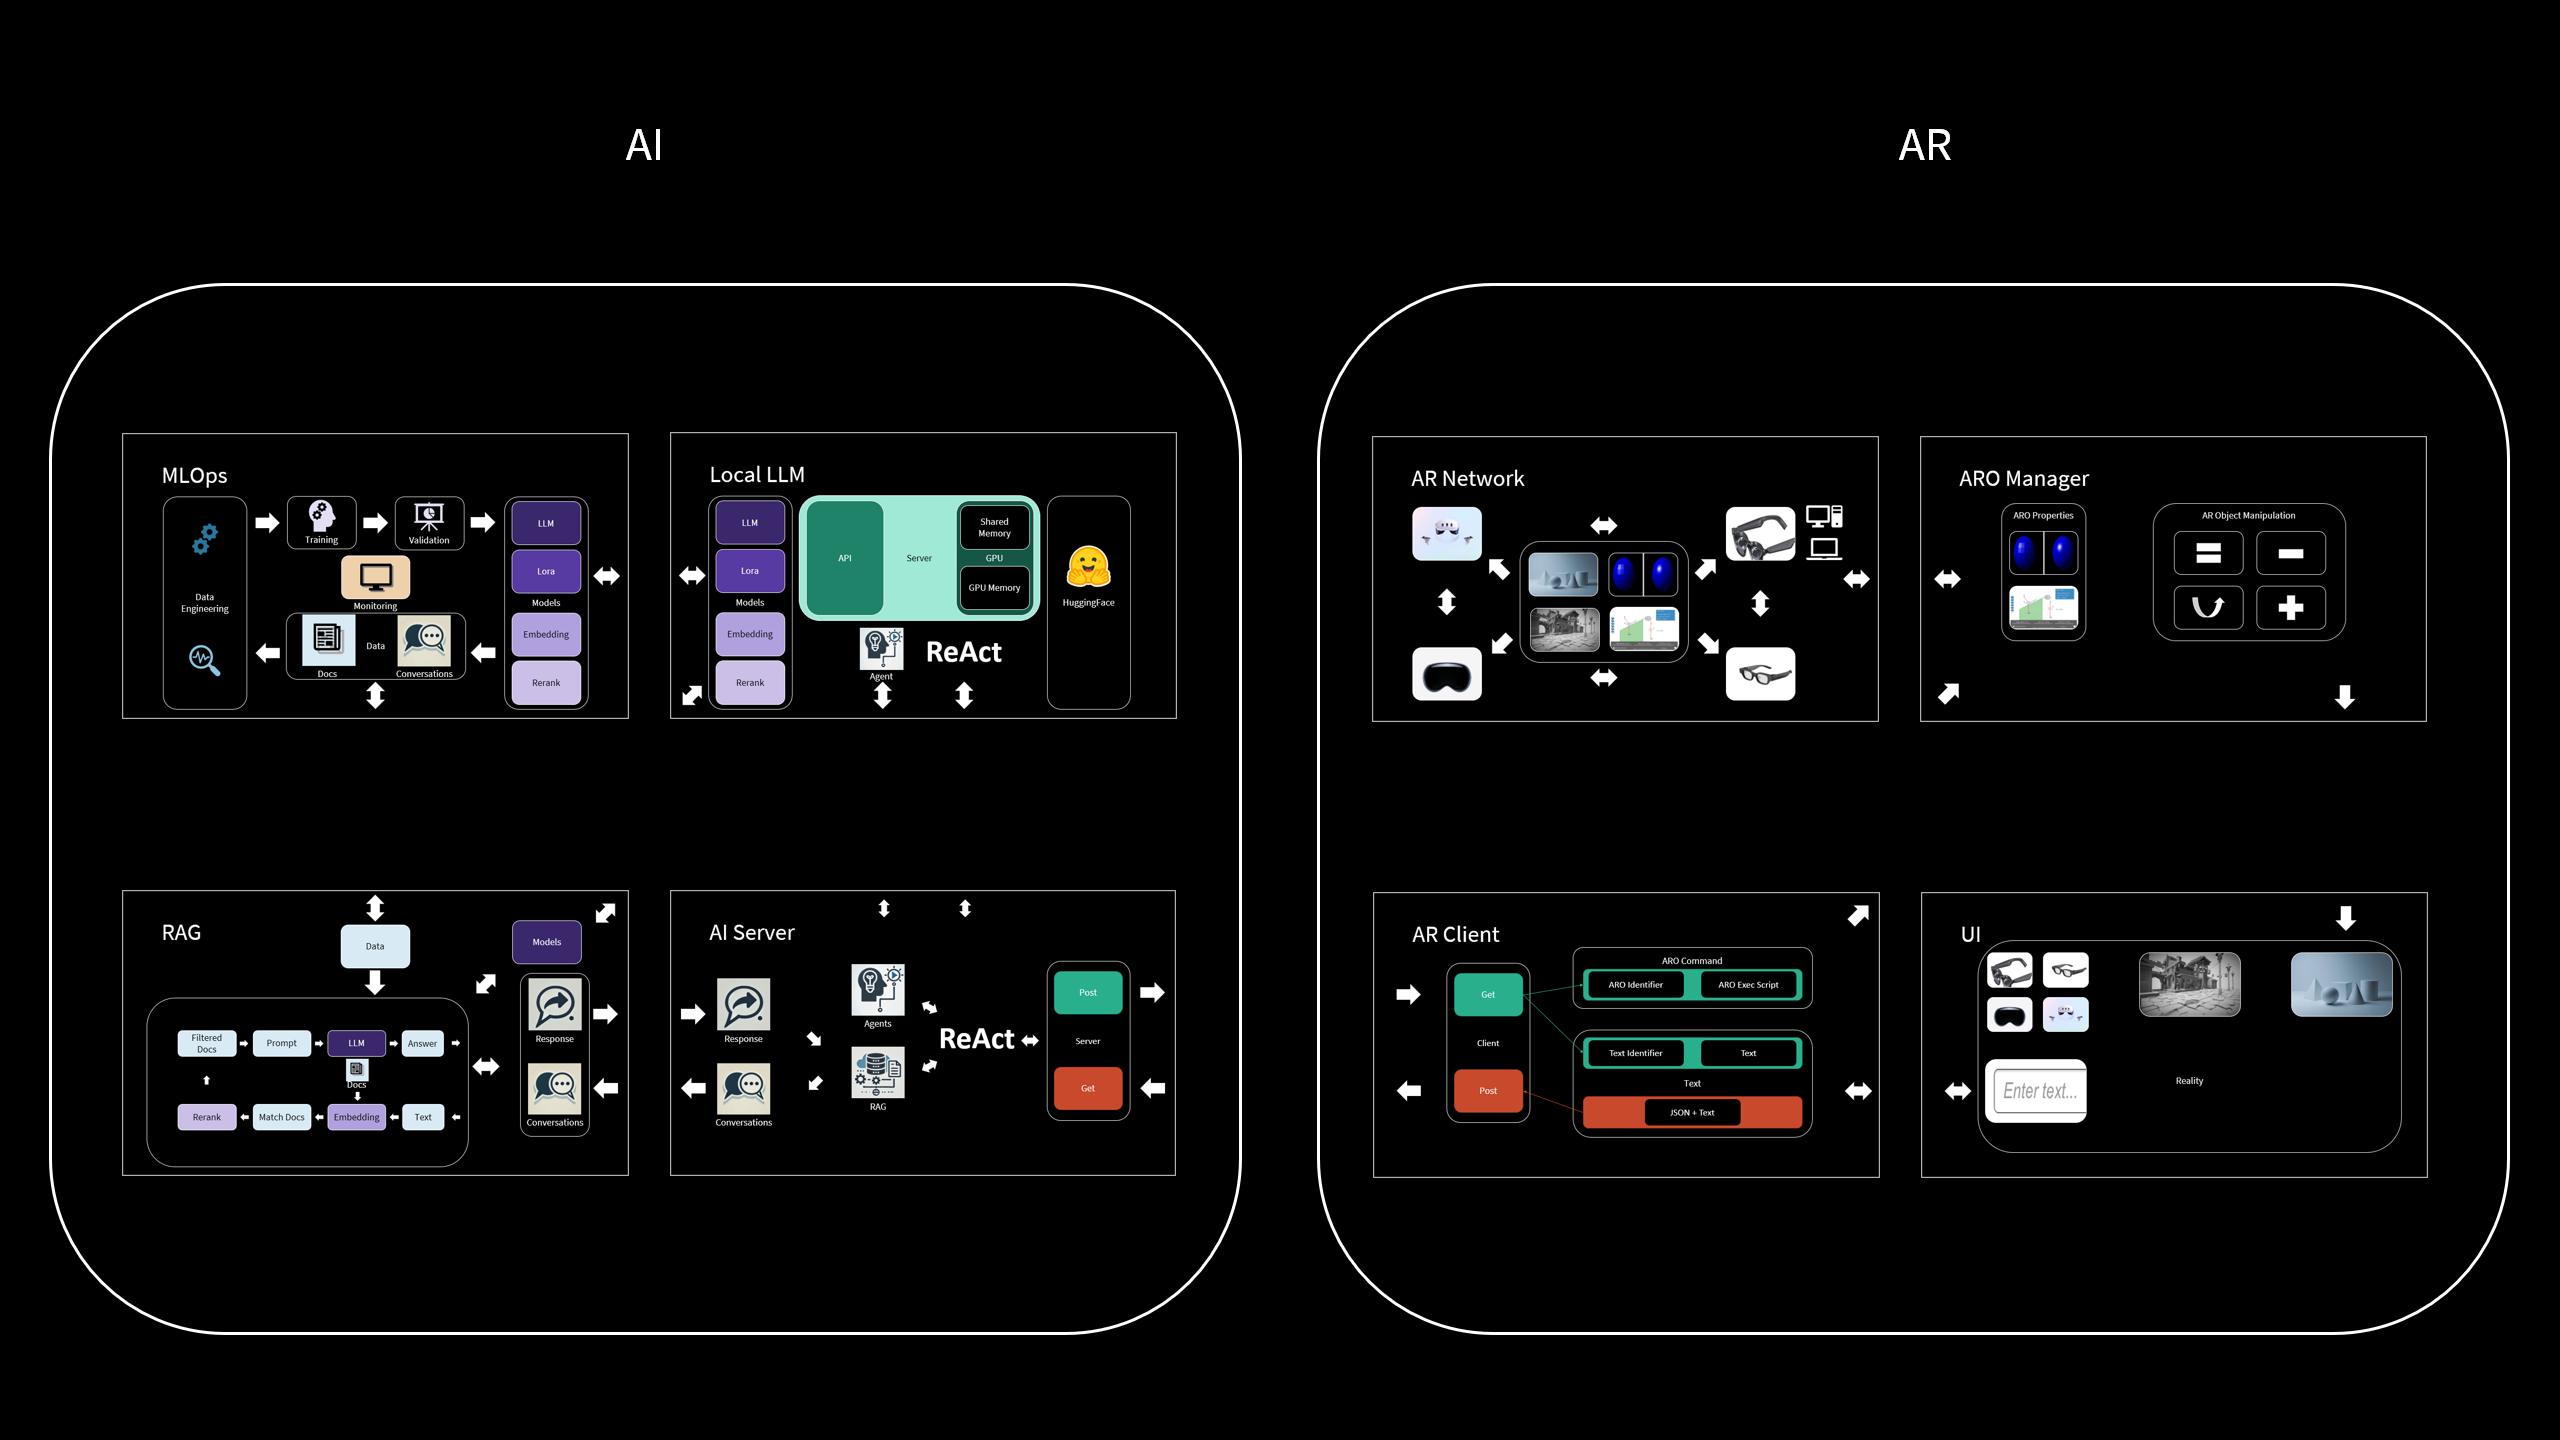
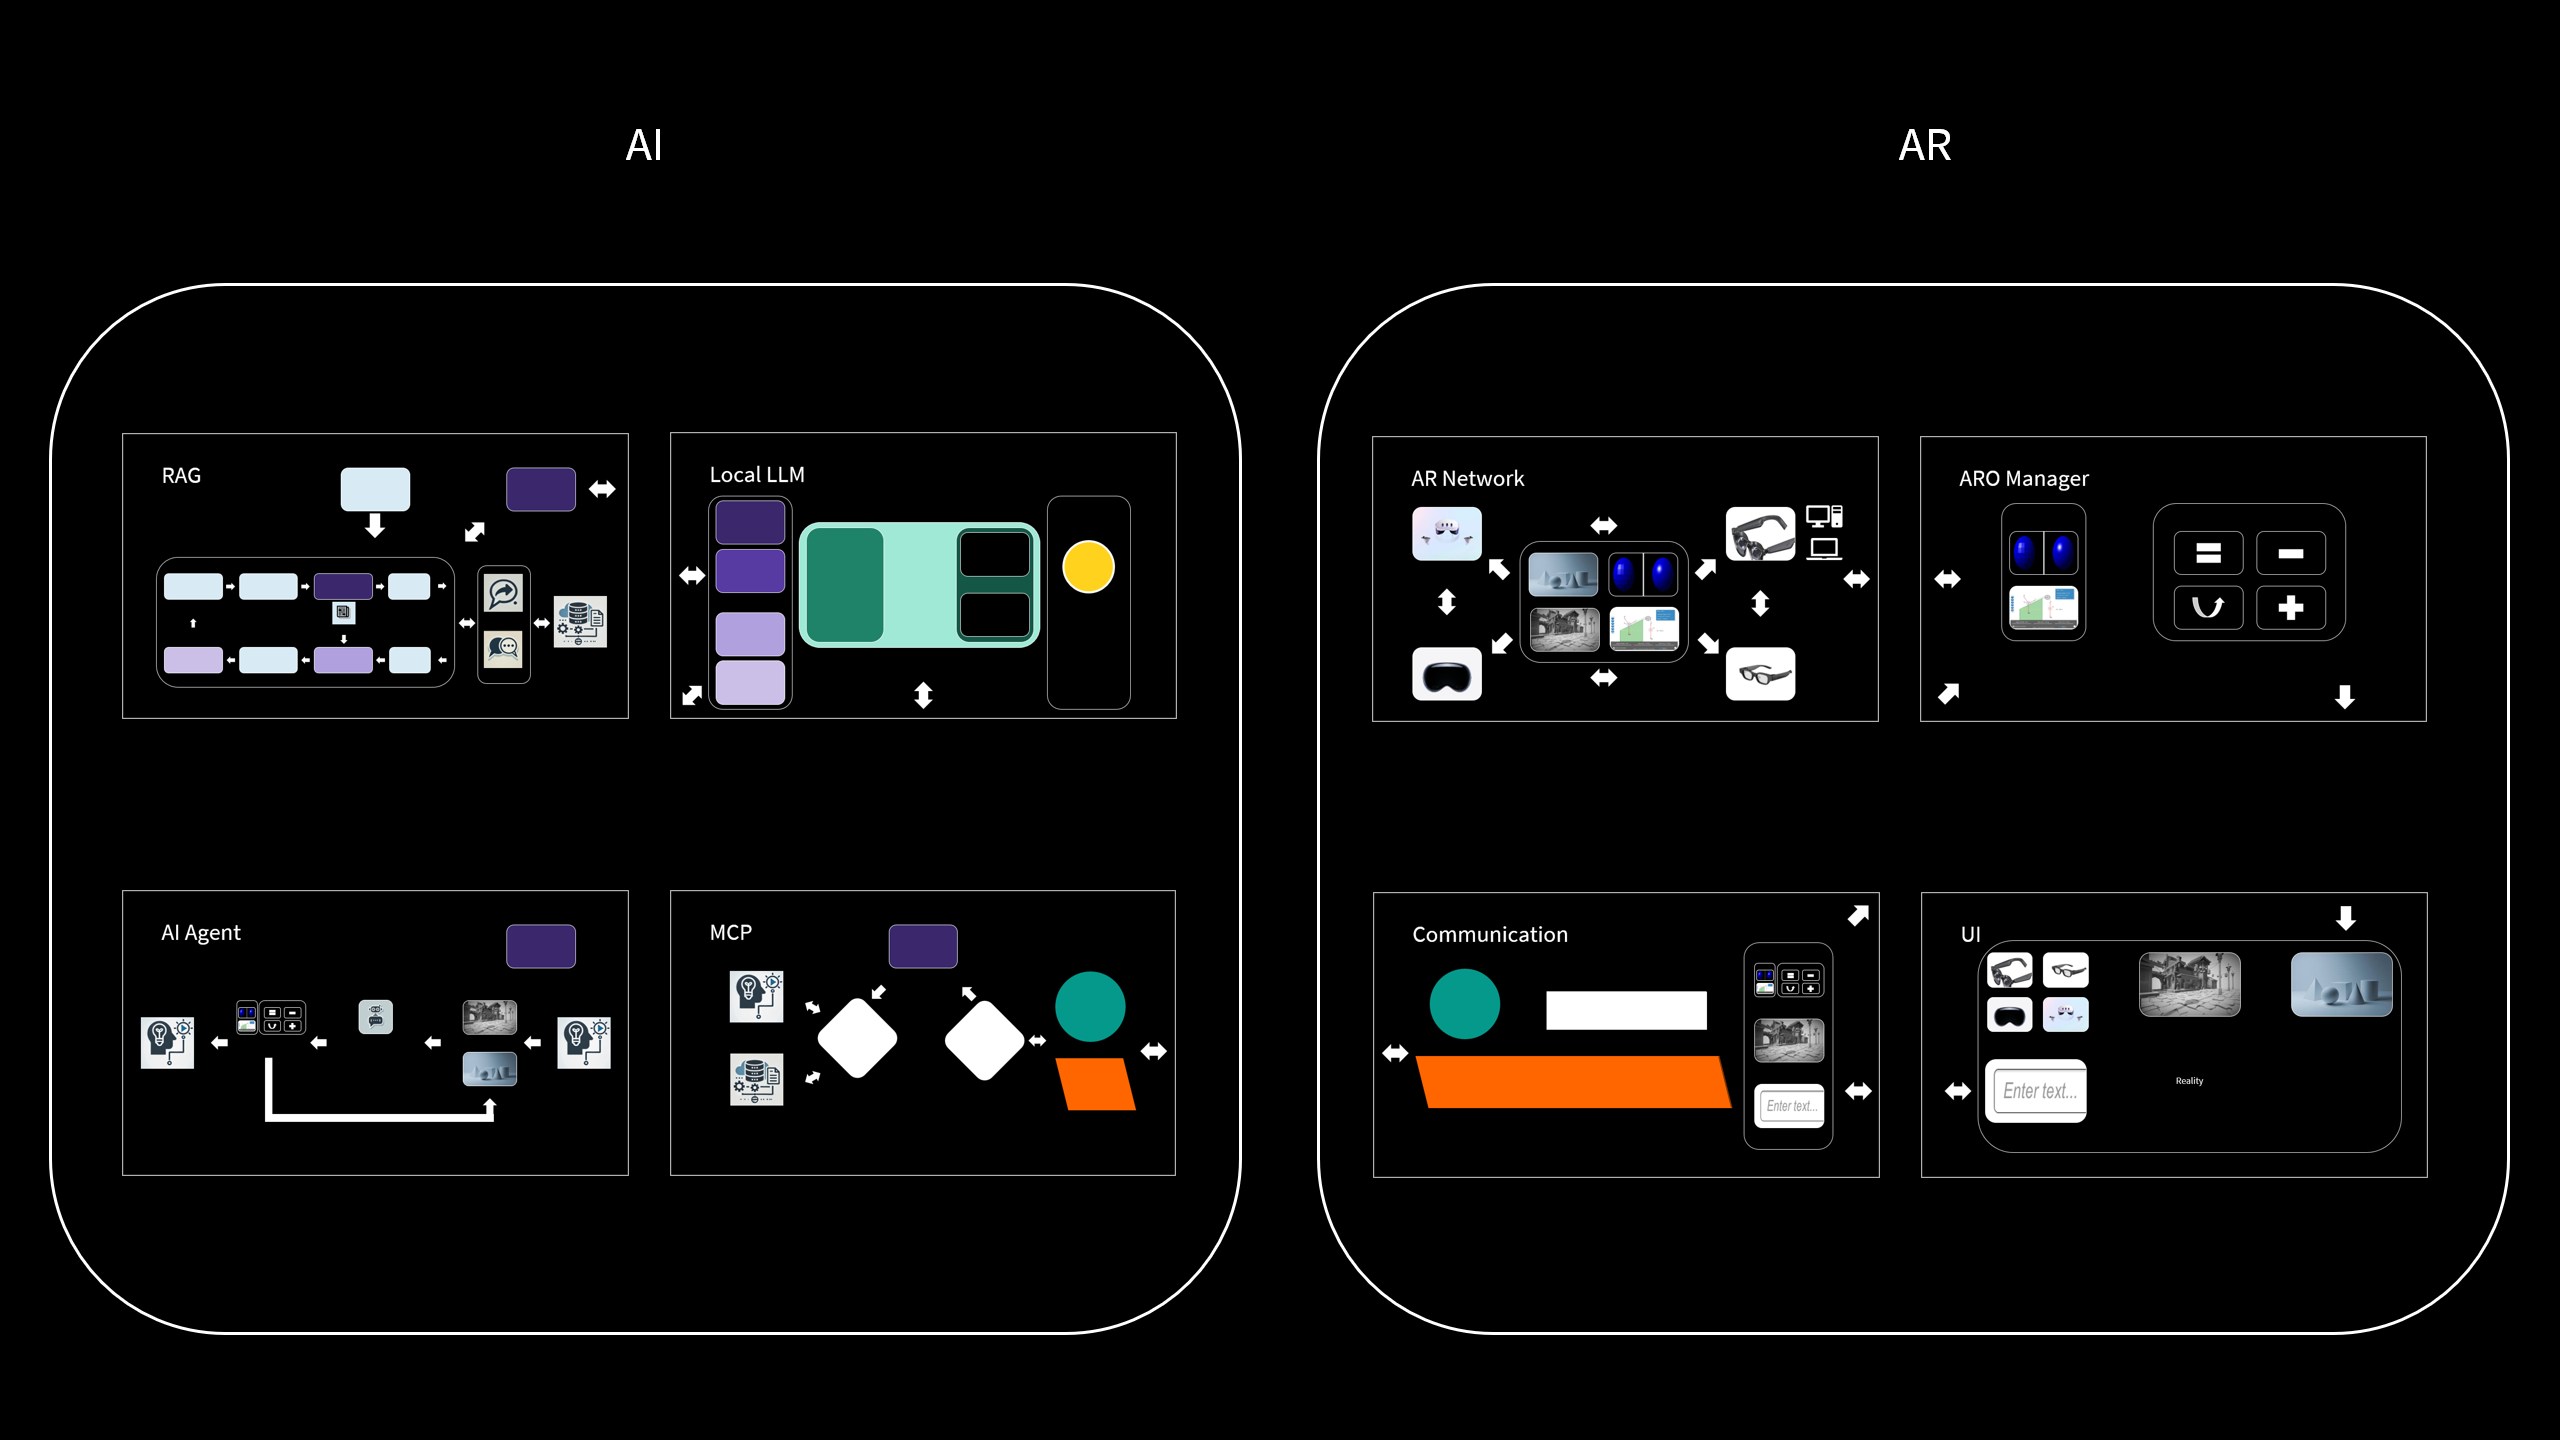
refresh overview and README
Align README architecture description with the latest system diagram in pics/overview.png.

Simplify wording and update the AI/AR domain breakdown to match current concepts.

diff --git a/README.md b/README.md
@@ -1,45 +1,44 @@
-# AiArAssistant
+# AiArAssistant
 
 ![System Overview](pics/overview.png)
 
-**AiArAssistant** is a next-generation software framework that fuses **Artificial Intelligence (AI)** with **Augmented Reality (AR)** to create intelligent, interactive, and dynamic AR experiences.
+**AiArAssistant** is a software framework that fuses **Artificial Intelligence (AI)** with **Augmented Reality (AR)** to create intelligent, interactive, and dynamic AR experiences.
 
-This project empowers AR environments with advanced AI capabilities—ranging from contextual information retrieval to autonomous manipulation of virtual objects—by seamlessly integrating local Large Language Models (LLMs), Retrieval-Augmented Generation (RAG), and the MCP (Model Context Protocol) servers that intelligently routes user intents through embedded agents, all while maintaining real-time performance across AR platforms.
+This project empowers AR environments with advanced AI capabilities by integrating local Large Language Models (LLMs), Retrieval-Augmented Generation (RAG), an AI agent layer, and the MCP (Model Context Protocol) server, while maintaining real-time performance across AR platforms.
 
-## ✨ Key Features
+## Key Features
 
 - **Intelligent AR Interaction**  
   Control and modify virtual 3D objects in AR using natural language commands.
 
 - **MCP Server with Agent Routing**  
-  The **MCP (Model Context Protocol) server** houses the Agent system to interpret, classify, and route user intents to the most suitable AI modules—enabling seamless orchestration of tasks and workflows.
+  The MCP server hosts the agent system to interpret, classify, and route user intents to the right AI modules.
 
 - **RAG-Enhanced Knowledge**  
-  Retrieve and generate contextually accurate responses from personal or domain-specific knowledge bases using Retrieval-Augmented Generation.
+  Retrieve and generate contextually accurate responses from personal or domain-specific knowledge bases using RAG.
 
-- **Modular MLOps + LoRA**  
-  Fine-tune and manage models locally with Hugging Face, GPU acceleration, and modular components for training, embedding, and ranking.
+- **Local LLM Inference**  
+  Run inference with local LLMs for low-latency, on-device or edge execution.
 
 - **Cross-Device AR Compatibility**  
-  Works with a variety of AR glasses and devices, enabling portability and scalability.
+  Works with a variety of AR glasses and devices.
 
-## 🧠 Architecture Overview
+## Architecture Overview
 
-The system is divided into two main domains:
+The system is divided into two main domains that communicate in real time:
 
-### AI Modules
-- **MLOps**: Handles training, validation, and fine-tuning (e.g., LoRA) of models.
-- **Local LLM**: Runs inference using on-device LLMs powered by Hugging Face and shared memory for speed.
-- **RAG**: Retrieves knowledge from documents and combines it with LLMs for grounded responses.
-- **MCP Server**: A central coordination hub that includes:
-  - **Agent**: Classifies user intents and selects the proper tools or modules to handle them.
+### AI Domain
+- **RAG**: Retrieves knowledge and grounds responses.
+- **Local LLM**: Executes inference on local or edge hardware.
+- **AI Agent**: Interprets intents and chooses tools and workflows.
+- **MCP**: Orchestrates the AI components and exposes services to AR.
 
-### AR Modules
-- **AR Network**: Connects AR devices like headsets and smart glasses.
+### AR Domain
+- **AR Network**: Connects AR devices and routes data streams.
 - **ARO Manager**: Controls AR objects and manages their properties and behaviors.
-- **AI Client**: Communicates with the AI backend (including the MCP server), sends and receives commands.
-- **UI**: User interface for inputting commands and visualizing the AR environment.
+- **Communication**: Bridges AR and AI with a real-time messaging layer.
+- **UI**: User interface for input and visualization in AR.
 
 ---
 
-> 🧩 **AiArAssistant** aims to bridge the gap between immersive environments and intelligent systems—giving users the power to not only explore AR, but to shape it with their words via the **MCP server**.
+> **AiArAssistant** bridges immersive environments and intelligent systems, giving users the power to shape AR with their words via the MCP server.
